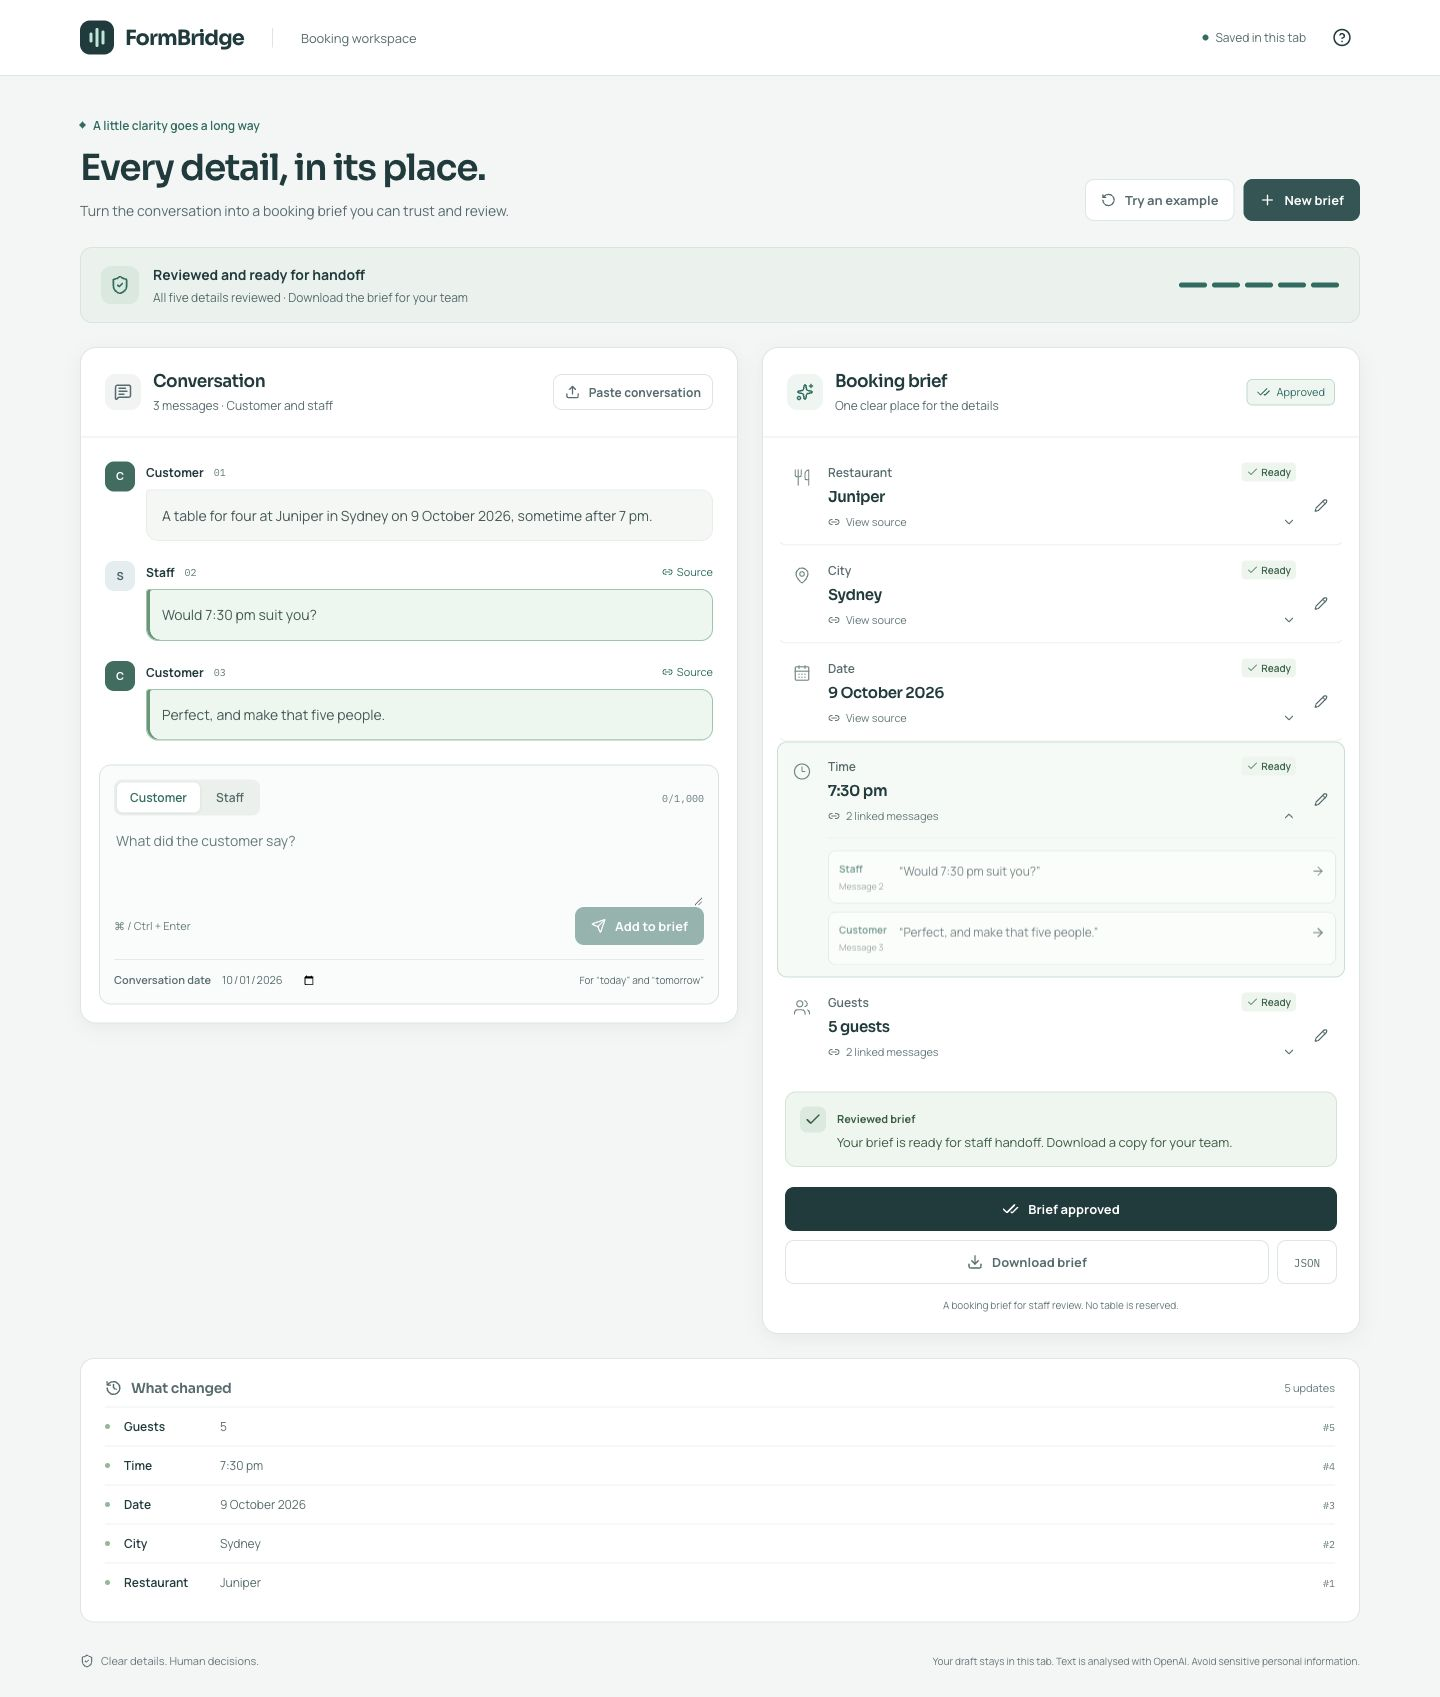
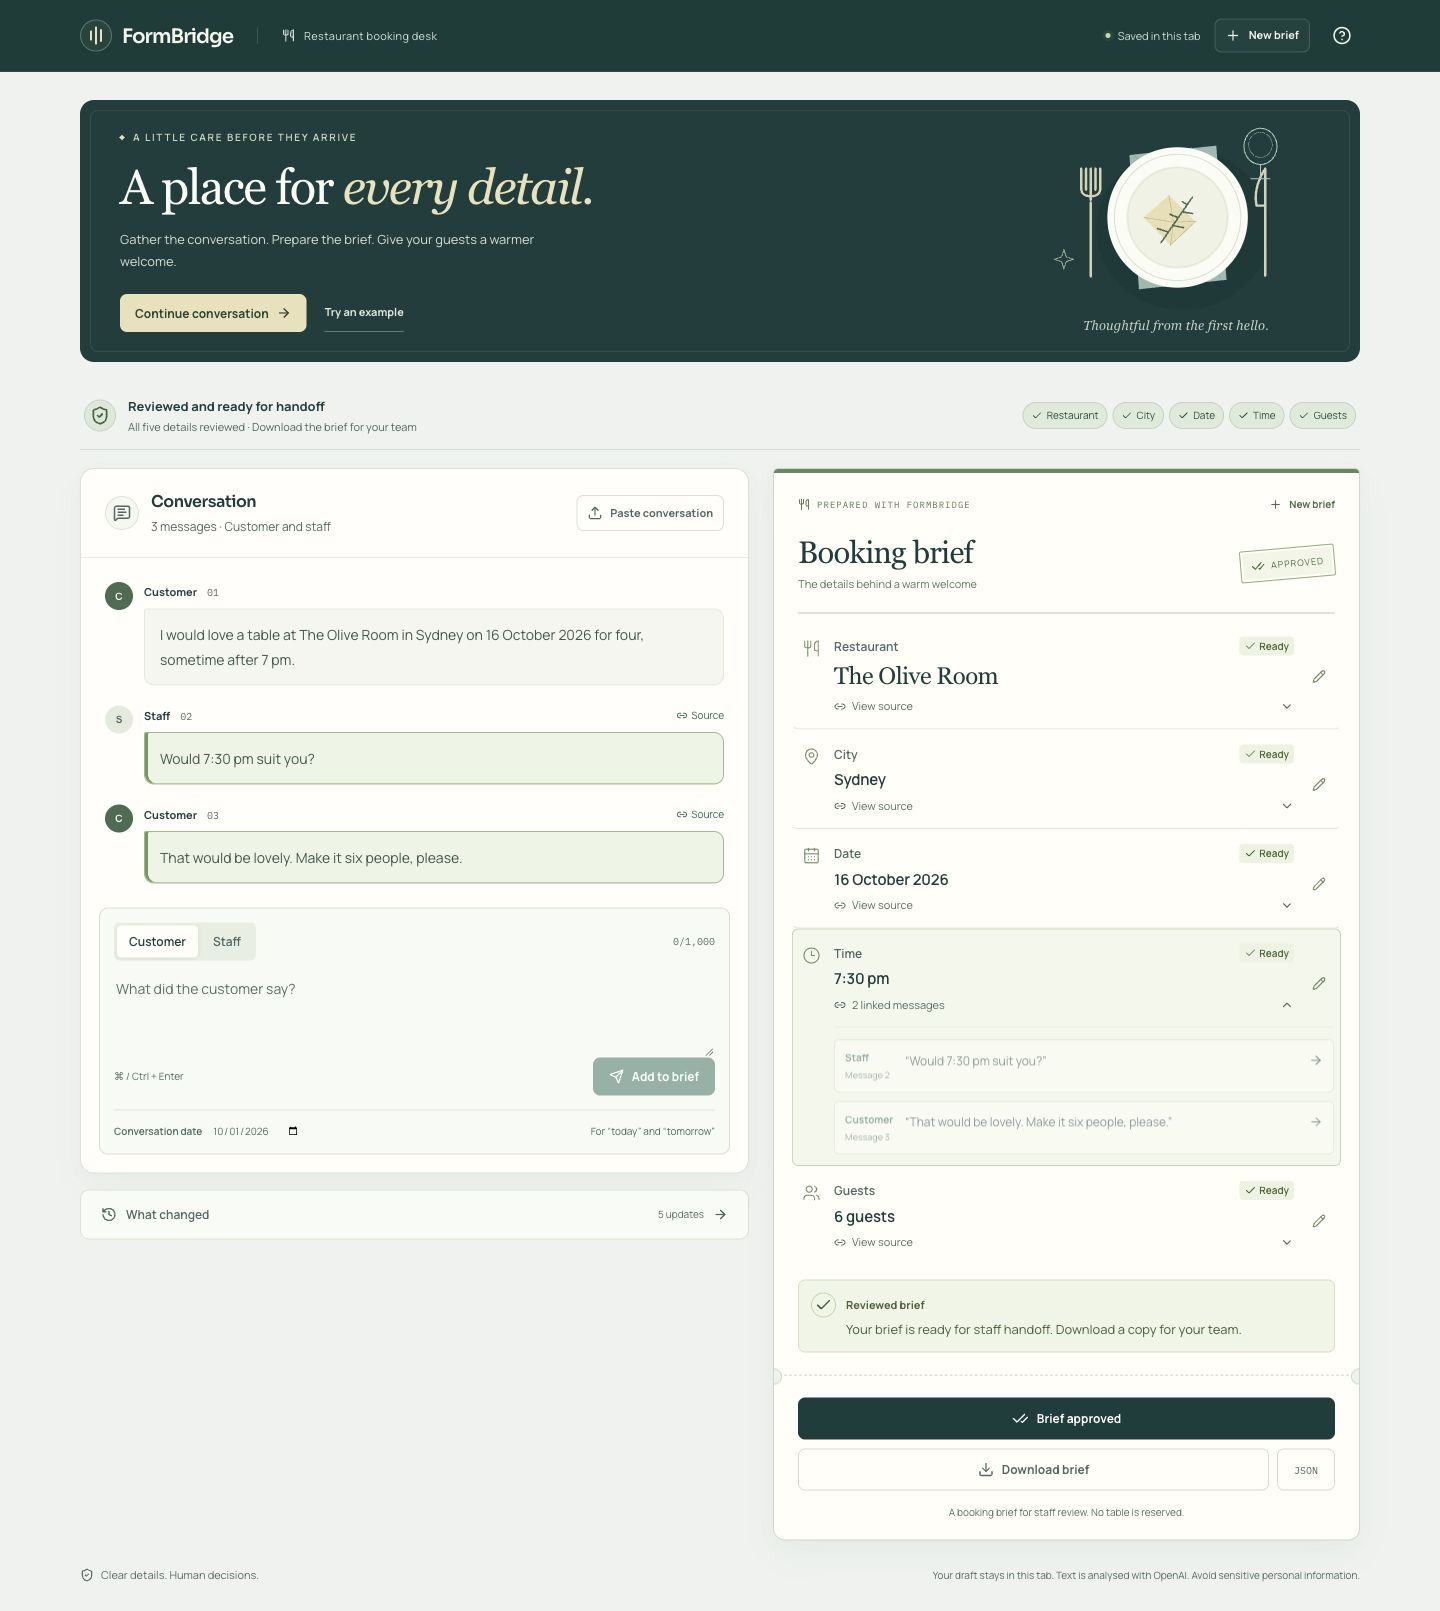
Refresh live restaurant workspace previews and save UI verification

diff --git a/README.md b/README.md
@@ -20,6 +20,11 @@ When a customer changes a booking detail, FormBridge keeps the latest request cl
 
 ![FormBridge booking workspace](docs/media/FormBridge-workspace.jpg)
 
+<details>
+  <summary>On mobile</summary>
+  <p align="center"><img src="docs/media/FormBridge-mobile.jpg" alt="FormBridge booking brief on mobile" width="360" /></p>
+</details>
+
 ### A quick introduction
 
 https://github.com/user-attachments/assets/18bf88d7-7031-447f-bc3c-800a070171ed
